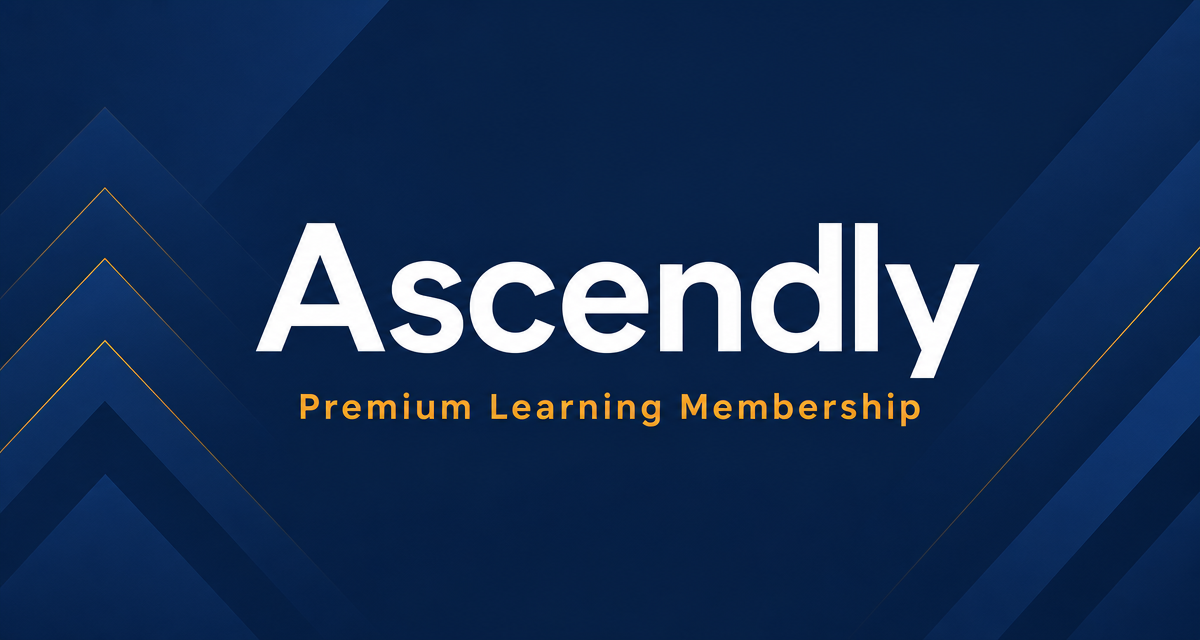
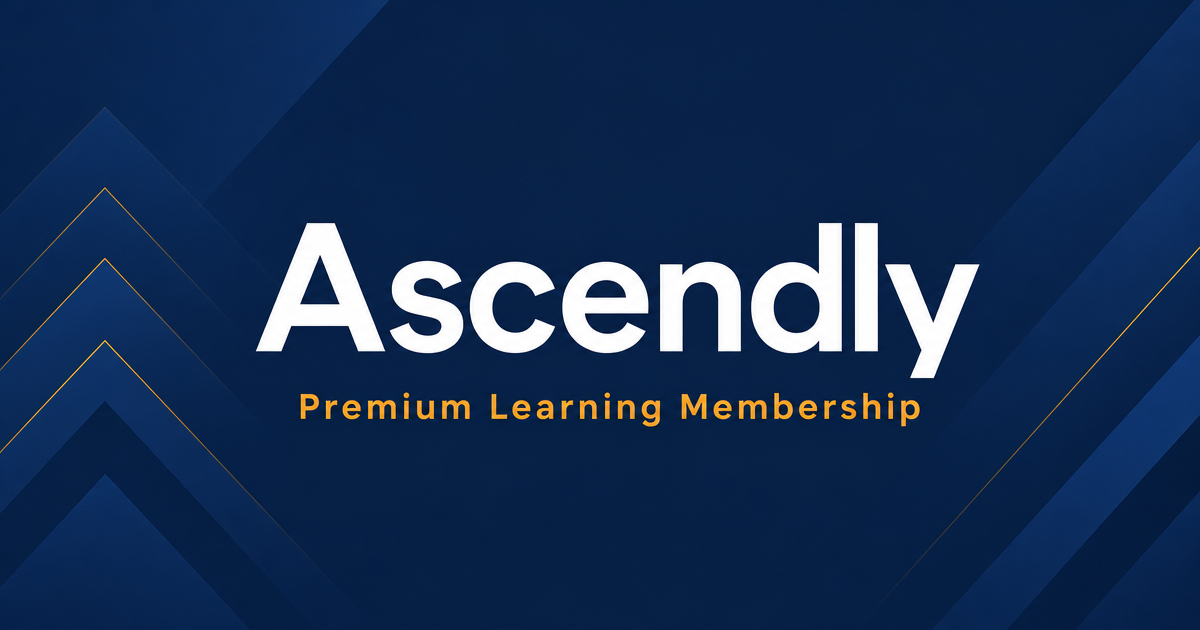
Group B SEO/CRO: meta templates, FAQPage schema, canonicals, OG 1200x630, review filters, richer 404

diff --git a/apps/web/app/(public)/reviews/page.tsx b/apps/web/app/(public)/reviews/page.tsx
@@ -1,27 +1,53 @@
-import { Review } from "@/types";
+import { Review, Category } from "@/types";
 import { Card } from "@/components/ui/card";
+import { Input } from "@/components/ui/input";
+import { Button } from "@/components/ui/button";
 import { Star } from "lucide-react";
 import { JsonLd } from "@/components/json-ld";
 import { makeMetadata, SITE_URL } from "@/lib/metadata";
 
-export const metadata = makeMetadata({
-  title: "Member Reviews — What Ascendly Students Say",
-  description:
-    "See real member reviews and outcomes from Ascendly students across business, tech, design, and data skills.",
-  path: "/reviews",
-});
+const apiBase = process.env.NEXT_PUBLIC_API_URL || "http://localhost:8000";
 
-export default async function ReviewsPage() {
+export async function generateMetadata({ searchParams }: { searchParams?: { [key: string]: string | string[] | undefined } }) {
+  const category = typeof searchParams?.category === "string" ? searchParams.category : "";
+  const title = category ? `${category} Reviews — Ascendly Member Outcomes` : "Member Reviews — What Ascendly Students Say";
+  return makeMetadata({
+    title,
+    description:
+      "See real member reviews and outcomes from Ascendly students across business, tech, design, and data skills.",
+    path: "/reviews",
+  });
+}
+
+export default async function ReviewsPage({
+  searchParams,
+}: {
+  searchParams?: { [key: string]: string | string[] | undefined };
+}) {
+  const search = typeof searchParams?.search === "string" ? searchParams.search : "";
+  const jobTitle = typeof searchParams?.job_title === "string" ? searchParams.job_title : "";
+  const category = typeof searchParams?.category === "string" ? searchParams.category : "";
+
+  const query = new URLSearchParams();
+  if (search) query.set("search", search);
+  if (jobTitle) query.set("job_title", jobTitle);
+  if (category) query.set("category", category);
+
   let reviews: Review[] = [];
+  let categories: Category[] = [];
   try {
-    const res = await fetch(
-      `${process.env.NEXT_PUBLIC_API_URL || "http://localhost:8000"}/api/v1/reviews`,
-      { next: { revalidate: 60 } }
-    );
-    if (res.ok) reviews = await res.json();
+    const [reviewsRes, catsRes] = await Promise.all([
+      fetch(`${apiBase}/api/v1/reviews${query.toString() ? `?${query.toString()}` : ""}`, { next: { revalidate: 60 } }),
+      fetch(`${apiBase}/api/v1/categories`, { next: { revalidate: 60 } }),
+    ]);
+    if (reviewsRes.ok) reviews = await reviewsRes.json();
+    if (catsRes.ok) categories = await catsRes.json();
   } catch {
     reviews = [];
+    categories = [];
   }
+
+  const jobTitles = Array.from(new Set(reviews.map((r) => r.job_title || r.role).filter(Boolean)));
 
   const average = reviews.length
     ? (reviews.reduce((sum, r) => sum + (r.rating || 5), 0) / reviews.length).toFixed(1)
@@ -65,6 +91,36 @@ export default async function ReviewsPage() {
         <div className="mx-auto max-w-page px-6">
           <h1 className="text-3xl font-semibold text-primary-900">Member reviews</h1>
           <p className="mt-2 text-neutral-600">Average rating: {average}/5 from {reviews.length} verified members.</p>
+
+          <form method="GET" action="/reviews" className="mt-6 flex flex-col gap-3 sm:flex-row">
+            <Input name="search" defaultValue={search} placeholder="Search reviews..." className="flex-1" />
+            <select
+              name="job_title"
+              defaultValue={jobTitle}
+              className="h-10 rounded-md border border-neutral-300 bg-white px-3 text-sm text-neutral-900"
+            >
+              <option value="">All job titles</option>
+              {jobTitles.map((jt) => (
+                <option key={jt} value={jt}>
+                  {jt}
+                </option>
+              ))}
+            </select>
+            <select
+              name="category"
+              defaultValue={category}
+              className="h-10 rounded-md border border-neutral-300 bg-white px-3 text-sm text-neutral-900"
+            >
+              <option value="">All categories</option>
+              {categories.map((c) => (
+                <option key={c.id} value={c.name}>
+                  {c.name}
+                </option>
+              ))}
+            </select>
+            <Button type="submit">Filter</Button>
+          </form>
+
           <div className="mt-8 grid gap-4 md:grid-cols-2 lg:grid-cols-3">
             {reviews.map((r) => (
               <Card key={r.id} className="p-6">
@@ -82,7 +138,7 @@ export default async function ReviewsPage() {
                   <p className="mt-2 text-sm text-neutral-600">Outcome: {r.outcome}</p>
                 )}
                 <p className="mt-4 text-sm font-medium text-neutral-900">{r.name}</p>
-                <p className="text-xs text-neutral-600">{r.job_title || r.role}</p>
+                <p className="text-xs text-neutral-600">{r.job_title || r.role}{r.category_name ? ` · ${r.category_name}` : ""}</p>
               </Card>
             ))}
           </div>

diff --git a/apps/web/app/not-found.tsx b/apps/web/app/not-found.tsx
@@ -1,19 +1,38 @@
 import Link from "next/link";
 import { Button } from "@/components/ui/button";
+import { Input } from "@/components/ui/input";
+import { Category } from "@/types";
 
 export const metadata = {
   title: "Page not found — Ascendly",
 };
 
-export default function NotFoundPage() {
+export default async function NotFoundPage() {
+  let categories: Category[] = [];
+  try {
+    const res = await fetch(
+      `${process.env.NEXT_PUBLIC_API_URL || "http://localhost:8000"}/api/v1/categories`,
+      { next: { revalidate: 60 } }
+    );
+    if (res.ok) categories = await res.json();
+  } catch {
+    categories = [];
+  }
+
   return (
     <section className="flex flex-1 items-center justify-center py-20">
       <div className="mx-auto max-w-page px-6 text-center">
         <h1 className="text-6xl font-bold text-primary-900">404</h1>
         <p className="mt-4 text-xl text-neutral-900">We could not find that page.</p>
         <p className="mt-2 text-neutral-600">
-          Explore popular courses, check our pricing, or head back home.
+          Search the library or explore popular categories below.
         </p>
+
+        <form action="/courses" method="GET" className="mx-auto mt-8 flex max-w-md gap-2">
+          <Input name="search" placeholder="Try 'Excel', 'leadership', or 'Python'…" className="flex-1" />
+          <Button type="submit">Search</Button>
+        </form>
+
         <div className="mt-8 flex flex-wrap justify-center gap-3">
           <Link href="/">
             <Button>Go home</Button>
@@ -25,6 +44,23 @@ export default function NotFoundPage() {
             <Button variant="secondary">View pricing</Button>
           </Link>
         </div>
+
+        {categories.length > 0 && (
+          <div className="mt-12">
+            <p className="text-sm font-medium text-neutral-900">Top categories</p>
+            <div className="mt-4 flex flex-wrap justify-center gap-2">
+              {categories.slice(0, 7).map((c) => (
+                <Link
+                  key={c.id}
+                  href={`/courses/${c.slug}`}
+                  className="rounded-full bg-neutral-100 px-4 py-2 text-sm text-neutral-700 hover:bg-neutral-200"
+                >
+                  {c.name}
+                </Link>
+              ))}
+            </div>
+          </div>
+        )}
       </div>
     </section>
   );

diff --git a/apps/web/app/(public)/pricing/page.tsx b/apps/web/app/(public)/pricing/page.tsx
@@ -53,9 +53,25 @@ export default async function PricingPage() {
     })),
   };
 
+  const faqItems = [
+    { q: "Can I cancel my subscription?", a: "Yes. Monthly, 3-month, 6-month, and 12-month plans can be cancelled anytime. You keep access until the end of your billing period." },
+    { q: "Do you offer refunds?", a: "We offer a 7-day money-back guarantee, no questions asked, one time per account." },
+    { q: "Are all courses included?", a: "Every plan includes unlimited access to the full library of 2,000+ courses across all categories." },
+  ];
+
+  const faqSchema = {
+    "@context": "https://schema.org",
+    "@type": "FAQPage",
+    mainEntity: faqItems.map((item) => ({
+      "@type": "Question",
+      name: item.q,
+      acceptedAnswer: { "@type": "Answer", text: item.a },
+    })),
+  };
+
   return (
     <>
-      <JsonLd data={productSchema} />
+      <JsonLd data={[productSchema, faqSchema]} />
       <section className="py-16">
         <div className="mx-auto max-w-page px-6 text-center">
           <h1 className="text-3xl font-semibold text-primary-900">Simple pricing. No per-course surprises.</h1>
@@ -106,6 +122,18 @@ export default async function PricingPage() {
             <span className="flex items-center gap-1"><Shield className="h-4 w-4" /> 7-day money-back guarantee</span>
             <span>Cancel anytime</span>
             <span>Secure checkout via Stripe and PayPal</span>
+          </div>
+
+          <div className="mx-auto mt-16 max-w-3xl text-left">
+            <h2 className="text-center text-2xl font-semibold text-primary-900">Questions before you subscribe?</h2>
+            <dl className="mt-8 space-y-4">
+              {faqItems.map((item) => (
+                <div key={item.q} className="rounded-lg border border-neutral-300 p-6">
+                  <dt className="font-medium text-neutral-900">{item.q}</dt>
+                  <dd className="mt-2 text-sm text-neutral-600">{item.a}</dd>
+                </div>
+              ))}
+            </dl>
           </div>
         </div>
       </section>

diff --git a/apps/web/app/(public)/courses/[category]/[course]/page.tsx b/apps/web/app/(public)/courses/[category]/[course]/page.tsx
@@ -15,10 +15,17 @@ export async function generateMetadata({ params }: { params: { course: string } 
     if (res.ok) course = await res.json();
   } catch {}
 
+  const outcome = course?.outcome?.[0] ? `Learn ${course.outcome[0].toLowerCase().replace(/^[a-z]/, (c) => c.toUpperCase())}` : "Learn this skill";
+  const title = course ? `${course.title} Course Online | Ascendly` : `${params.course} | Ascendly`;
+  const description = course
+    ? `${outcome} with ${course.title} — part of Ascendly's full course library. ${course.lesson_count} lessons, included in every plan.`
+    : "Learn this skill with Ascendly.";
+
   return makeMetadata({
-    title: `${course?.title || params.course} — Ascendly Course`,
-    description: course?.description || "Learn this skill with Ascendly.",
+    title,
+    description,
     path: `/courses/${course?.category_slug || "category"}/${course?.slug || params.course}`,
+    image: course?.thumbnail_url ? `${SITE_URL}${course.thumbnail_url}` : undefined,
   });
 }
 

diff --git a/apps/web/app/(public)/courses/[category]/page.tsx b/apps/web/app/(public)/courses/[category]/page.tsx
@@ -13,9 +13,10 @@ export async function generateMetadata({ params }: { params: { category: string 
     if (res.ok) category = await res.json();
   } catch {}
 
+  const count = category?.course_count || 0;
   return makeMetadata({
-    title: `${category?.name || params.category} Courses — Ascendly`,
-    description: `Browse ${category?.name || params.category} courses included with every Ascendly membership.`,
+    title: `${category?.name || params.category} Courses Online — ${count}+ Courses | Ascendly`,
+    description: `Browse ${count}+ ${category?.name || params.category} courses included with every Ascendly membership. From beginner to advanced. Preview free.`,
     path: `/courses/${params.category}`,
   });
 }

diff --git a/apps/web/types/index.ts b/apps/web/types/index.ts
@@ -63,6 +63,9 @@ export interface Review {
   outcome: string;
   rating?: number;
   verified?: boolean;
+  category_id?: string;
+  category_name?: string;
+  course_title?: string;
 }
 
 export interface Progress {

diff --git a/apps/api/app/api/v1/reviews.py b/apps/api/app/api/v1/reviews.py
@@ -1,11 +1,34 @@
-from fastapi import APIRouter
+from fastapi import APIRouter, Query
 from app.db.mongodb import get_db
 
 router = APIRouter()
 
 
 @router.get("/reviews")
-async def list_reviews():
+async def list_reviews(
+    job_title: str = Query(default=""),
+    category: str = Query(default=""),
+    search: str = Query(default=""),
+):
     db = get_db()
-    reviews = await db.reviews.find().to_list(100)
+    clauses = []
+    if job_title:
+        clauses.append({"job_title": {"$regex": job_title, "$options": "i"}})
+    if category:
+        clauses.append({
+            "$or": [
+                {"category_name": {"$regex": category, "$options": "i"}},
+                {"category_id": {"$regex": category, "$options": "i"}},
+            ]
+        })
+    if search:
+        clauses.append({
+            "$or": [
+                {"name": {"$regex": search, "$options": "i"}},
+                {"comment": {"$regex": search, "$options": "i"}},
+                {"outcome": {"$regex": search, "$options": "i"}},
+            ]
+        })
+    query = {"$and": clauses} if len(clauses) > 1 else (clauses[0] if clauses else {})
+    reviews = await db.reviews.find(query).to_list(100)
     return [{"id": r["_id"], **{k: v for k, v in r.items() if k != "_id"}} for r in reviews]

diff --git a/apps/api/app/db/mongodb.py b/apps/api/app/db/mongodb.py
@@ -227,6 +227,9 @@ async def seed_db():
                 "_id": "rev-1",
                 "user_id": "user-sarah-lin",
                 "course_id": "course-powerbi",
+                "course_title": "Power BI Fundamentals",
+                "category_id": "cat-data",
+                "category_name": "Data & Analytics",
                 "name": "Sarah Lin",
                 "job_title": "Operations Analyst",
                 "rating": 5,
@@ -239,6 +242,9 @@ async def seed_db():
                 "_id": "rev-2",
                 "user_id": "user-marcus-rivera",
                 "course_id": "course-excel",
+                "course_title": "Excel for Busy Professionals",
+                "category_id": "cat-data",
+                "category_name": "Data & Analytics",
                 "name": "Marcus Rivera",
                 "job_title": "Marketing Coordinator",
                 "rating": 5,
@@ -251,6 +257,9 @@ async def seed_db():
                 "_id": "rev-3",
                 "user_id": "user-priya-shah",
                 "course_id": "course-leadership",
+                "course_title": "Leadership for New Managers",
+                "category_id": "cat-career",
+                "category_name": "Career & Professional Skills",
                 "name": "Priya Shah",
                 "job_title": "Junior UX Designer",
                 "rating": 4,